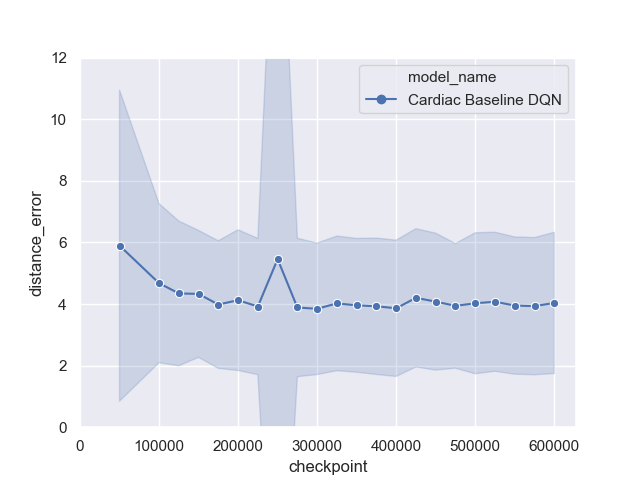
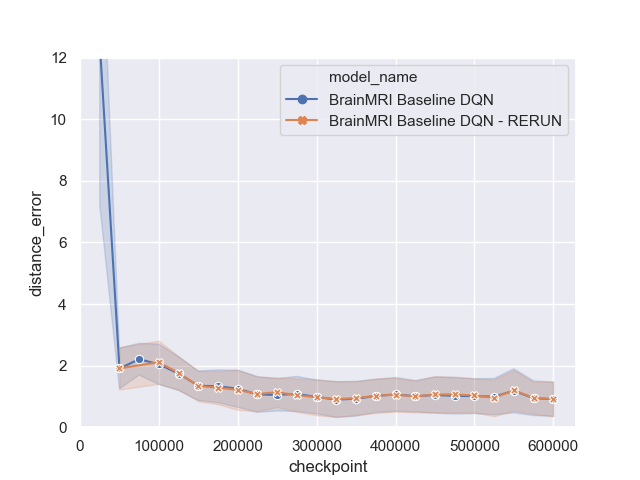
added plot

Changed region(s): [[0.1562, 0.125, 0.875, 0.9062], [0.8125, 0.9062, 0.9062, 0.9375], [0.5625, 0.9062, 0.6562, 0.9375]]

diff --git a/examples/LandmarkDetection/DQN/results/plot_results.py b/examples/LandmarkDetection/DQN/results/plot_results.py
@@ -12,7 +12,7 @@ import seaborn as sns; sns.set()
 
 ############################################################################################################
 # Step 0 - Choose paths to plot
-filename = "./results/eval_logs/logs_eval_CardiacMRI.csv"
+filename = "./results/eval_logs/log_eval_BrainMRI_rerunsbaseline.csv"
 model_name = ""
 model_path = ""
 checkpoint = ""
